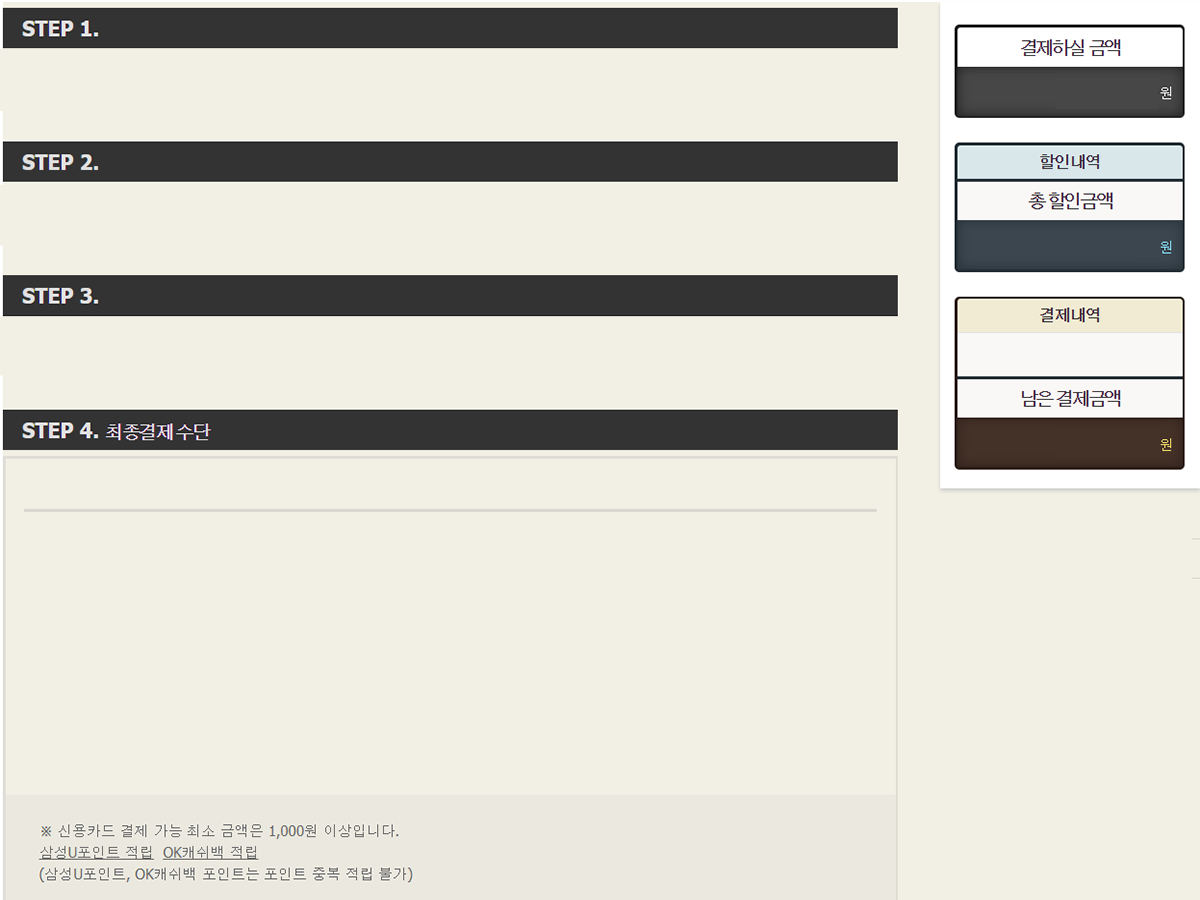
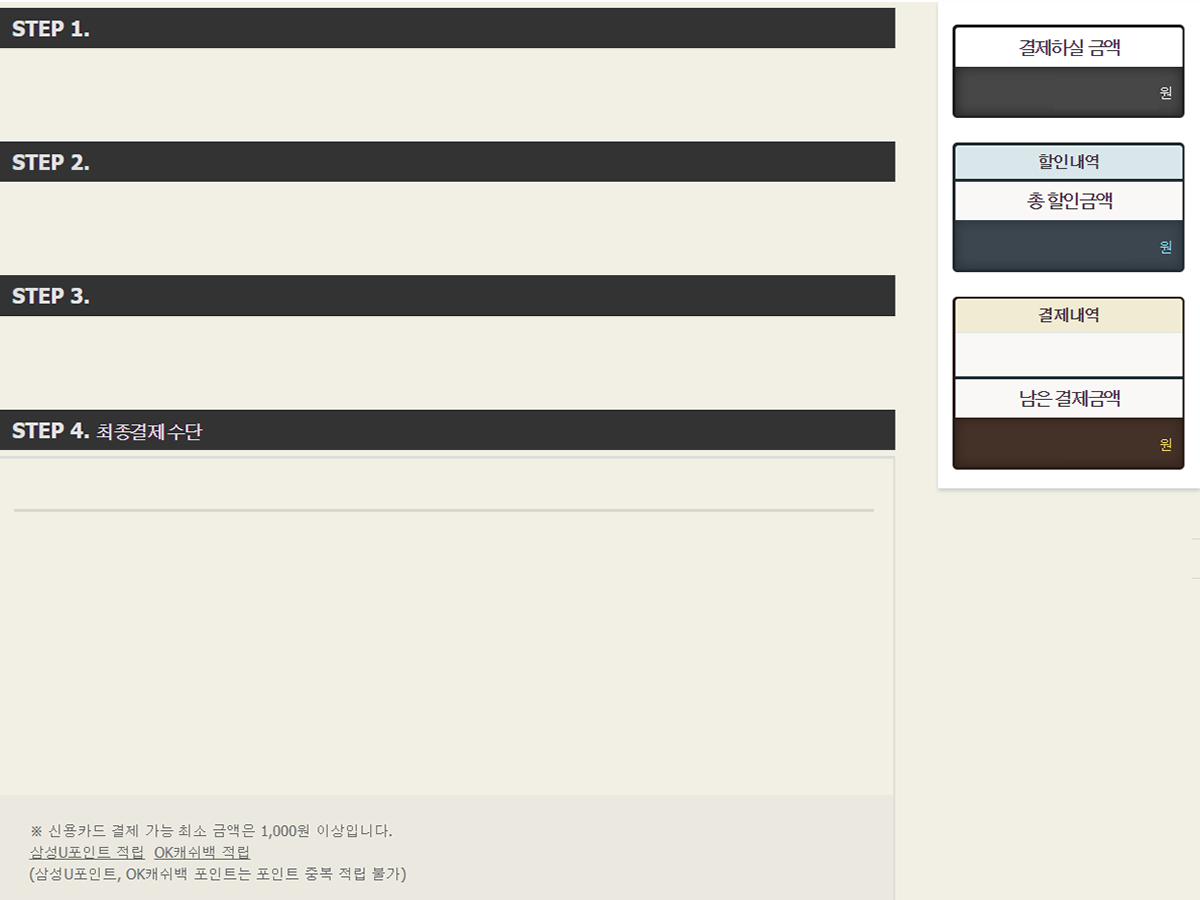
Payment Ver0.01

diff --git a/MovieTheater/src/movie/Payment.java b/MovieTheater/src/movie/Payment.java
@@ -1,0 +1,155 @@
+package movie;
+
+import java.awt.Color;
+import java.awt.Font;
+import java.awt.event.ItemEvent;
+import java.awt.event.ItemListener;
+
+import javax.swing.ButtonGroup;
+import javax.swing.ImageIcon;
+import javax.swing.JCheckBox;
+import javax.swing.JComboBox;
+import javax.swing.JLabel;
+import javax.swing.JPanel;
+import javax.swing.JRadioButton;
+
+public class Payment extends JPanel implements ItemListener{
+	ControlTower ct;
+	
+	JLabel background;
+	Color backColor = new Color(242, 240, 228);
+	JLabel priceTag; JLabel price1, price2, price3;
+	JLabel step1, step2;
+	JComboBox<String> sale; 
+	String[] saleString = {"카카오 할인(3000원할인)", "SKT 할인(4000원할인)", 
+			"LG 할인(1000원할인)", "KT 할인(3000원할인)"};
+	JRadioButton[] selectPayment; ButtonGroup payGroup;
+	String[] selectString = {"신용카드", "휴대폰결제", "계좌 이체", "카카오 페이", "네이버 페이"};
+	JLabel credit; JComboBox<String> creditCard;
+	String[] creditString = {"삼성카드", "카카오카드", "sk카드", "농협카드", "국민카드", "SC제일은행", "기업카드"};
+	
+	public Payment(ControlTower ct) {
+		this.ct = ct;
+		setLayout(null);
+		
+		
+		//선언하기
+		background = new JLabel();
+		priceTag = new JLabel(ct.imageSetSize(
+				new ImageIcon("./images/paymentBase2.png"), 245, 460));
+		step1 = new JLabel(ct.imageSetSize(
+				new ImageIcon("./images/step1.png"), 890, 45));
+		step2 = new JLabel(ct.imageSetSize(
+				new ImageIcon("./images/step2.png"), 890, 45));
+		price1 = new JLabel("0"); price2 = new JLabel("0"); price3 = new JLabel("0");
+		sale = new JComboBox<String>(saleString);
+		selectPayment = new JRadioButton[5];
+		for(int i = 0; i < selectPayment.length; i++) {
+			selectPayment[i] = new JRadioButton(selectString[i]);
+		}
+		payGroup = new ButtonGroup(); 
+		credit = new JLabel("카드종류");
+		creditCard = new JComboBox<String>(creditString);
+		
+		//위치 지정
+		background.setBounds(0, 0, 1200, 900);
+		priceTag.setBounds(915, 20, 245, 460);
+		step1.setBounds(0, 20, 890, 45);
+		step2.setBounds(0, 220, 890, 45);
+		price1.setBounds(970, 69, 150, 50);
+		price2.setBounds(970, 223, 150, 50);
+		price3.setBounds(970, 420, 150, 50);
+		sale.setBounds(10, 75, 870, 40);
+		for(int i = 0; i < selectPayment.length; i++) {
+			selectPayment[i].setBounds(30 + (i % 5 * 160), 280, 150, 60);
+		}
+		credit.setBounds(150, 360, 100, 50);
+		creditCard.setBounds(250, 365, 150, 40);
+		
+		//백그라운드 지정
+		background.setBackground(backColor);
+		for(int i = 0; i < selectPayment.length; i++) {
+			selectPayment[i].setBackground(backColor);
+		}
+		
+		//효과 지정
+		sale.addItemListener(this);
+		for(int i = 0; i < selectPayment.length; i++) {
+			selectPayment[i].addItemListener(this);
+		}
+		
+		
+		//폰트 지정
+		price1.setFont(new Font("맑은 고딕", Font.BOLD, 22));
+		price2.setFont(new Font("맑은 고딕", Font.BOLD, 22));
+		price3.setFont(new Font("맑은 고딕", Font.BOLD, 22));
+		sale.setFont(new Font("맑은 고딕", Font.BOLD, 22));
+		for(int i = 0; i < selectPayment.length; i++) {
+			selectPayment[i].setFont(new Font("맑은 고딕", Font.BOLD, 18));
+		}
+		credit.setFont(new Font("맑은 고딕", Font.BOLD, 20));
+		creditCard.setFont(new Font("맑은 고딕", Font.BOLD, 20));
+		
+		//폰트 색상
+		price1.setForeground(Color.white);
+		price2.setForeground(new Color(127, 208, 232));
+		price3.setForeground(new Color(211, 186, 92));
+		
+		//나머지 지정
+		background.setOpaque(true);
+		price1.setHorizontalAlignment(JLabel.RIGHT);
+		price2.setHorizontalAlignment(JLabel.RIGHT);
+		price3.setHorizontalAlignment(JLabel.RIGHT);
+		
+		
+		
+		//추가하기
+		add(sale);
+		for(int i = 0; i < selectPayment.length; i++) {
+			payGroup.add(selectPayment[i]);
+			add(selectPayment[i]);
+		}
+		add(credit);
+		add(creditCard);
+		
+		add(price1);
+		add(price2);
+		add(price3);
+		
+		add(step1);
+		add(step2);
+		add(priceTag);
+		
+		
+		add(background);
+		
+		
+	}
+	
+	public String getPrice(String st) {
+		return st.substring(st.indexOf("(") + 1, st.lastIndexOf("원"));
+	}
+
+	@Override
+	public void itemStateChanged(ItemEvent e) {	
+		if(e.getSource().equals(sale)) {
+			price2.setText(getPrice(sale.getSelectedItem().toString()));
+		}
+		credit.setVisible(false);
+		creditCard.setVisible(false);
+		if(e.getSource().equals(selectPayment[0])) {
+			credit.setVisible(true);
+			creditCard.setVisible(true);
+		}else if(e.getSource().equals(selectPayment[1])) {
+			
+		}else if(e.getSource().equals(selectPayment[2])) {
+			
+		}else if(e.getSource().equals(selectPayment[3])) {
+			
+		}else if(e.getSource().equals(selectPayment[4])) {
+			
+		}
+
+	}
+	
+}

diff --git a/MovieTheater/src/movie/ControlTower.java b/MovieTheater/src/movie/ControlTower.java
@@ -1,6 +1,7 @@
 package movie;
 
 import java.awt.Container;
+import java.awt.Dimension;
 import java.awt.Image;
 import java.util.ArrayList;
 
@@ -32,6 +33,7 @@ public class ControlTower extends JFrame{
 	ManagerAdministrateMovie managerAd;
 	insertMovieInTheater theaterAdmini;
 	public Auditorium auditorium;
+	Payment payment;
 
 	
 	ControlTower(){
@@ -54,6 +56,13 @@ public class ControlTower extends JFrame{
 		}else if(panelName == "auditorium") {
 			getContentPane().removeAll();
 			getContentPane().add(auditorium);			
+			revalidate();
+			repaint();
+		}else if(panelName == "payment") {
+			getContentPane().removeAll();
+			getContentPane().add(payment);
+			getContentPane().setPreferredSize(new Dimension(1200, 900));
+			this.pack();
 			revalidate();
 			repaint();
 		}

diff --git a/MovieTheater/src/movie/MovieMain.java b/MovieTheater/src/movie/MovieMain.java
@@ -13,8 +13,9 @@ public class MovieMain {
 		ct.managerAd = new ManagerAdministrateMovie(ct);
 		ct.theaterAdmini = new insertMovieInTheater(ct);
 		ct.auditorium = new Auditorium(ct);
+		ct.payment = new Payment(ct);
 		
-		ct.add(ct.ticketUi);
+		ct.add(ct.payment);
 		
 		ct.setTitle("managerAd");
 		ct.setSize(1200, 900);
